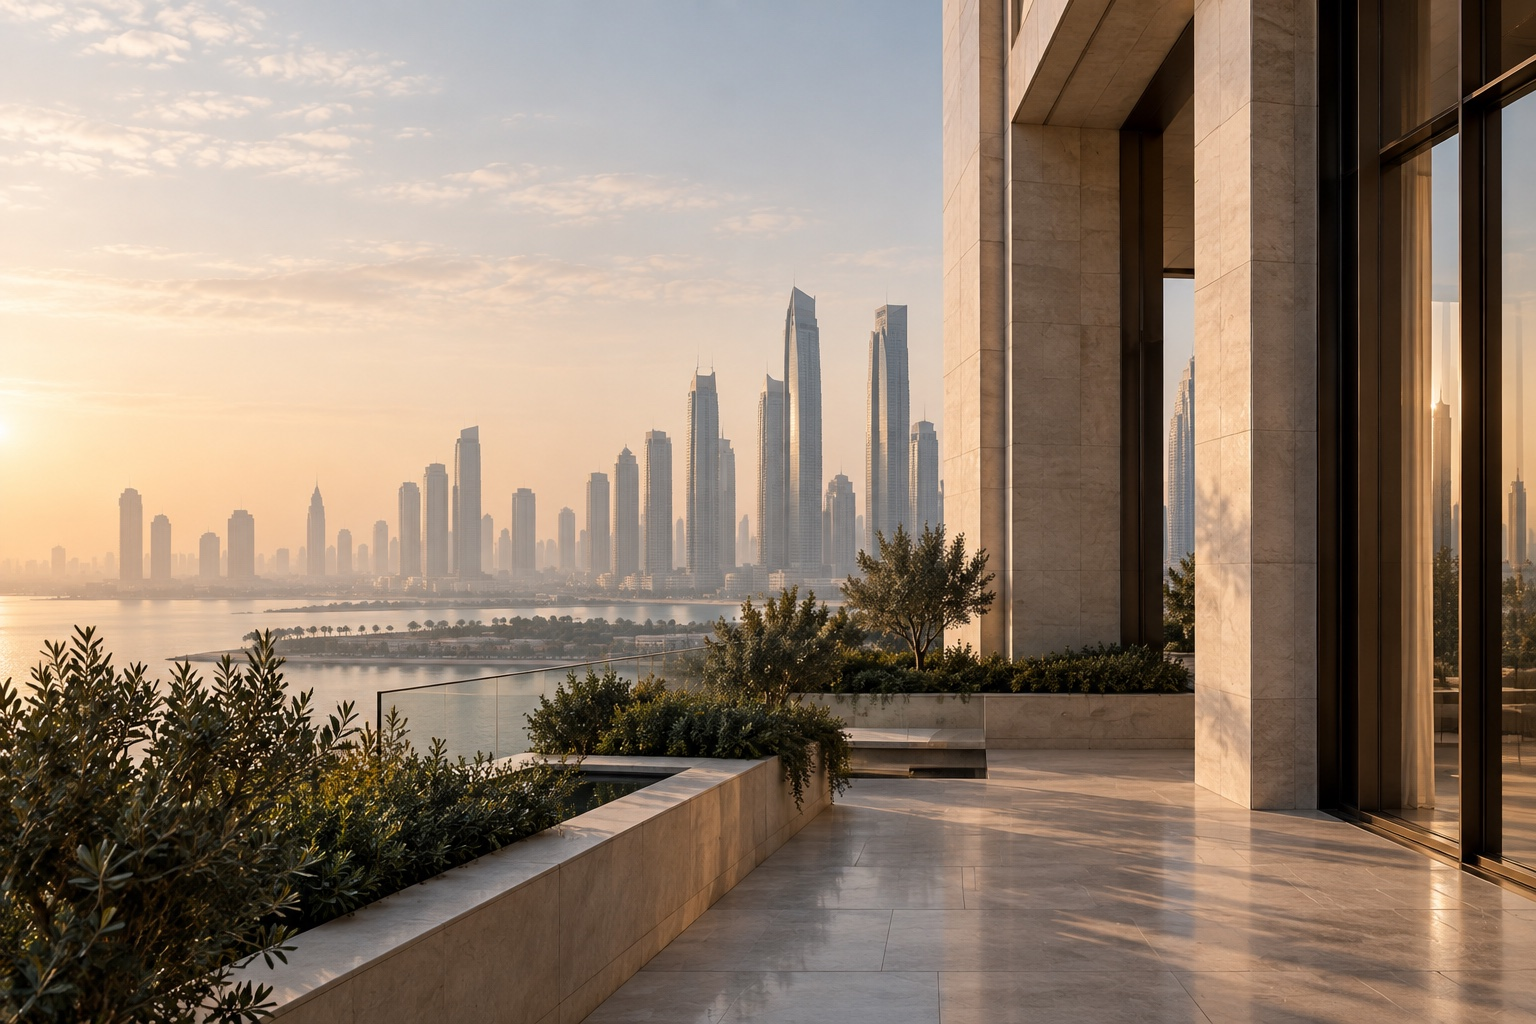
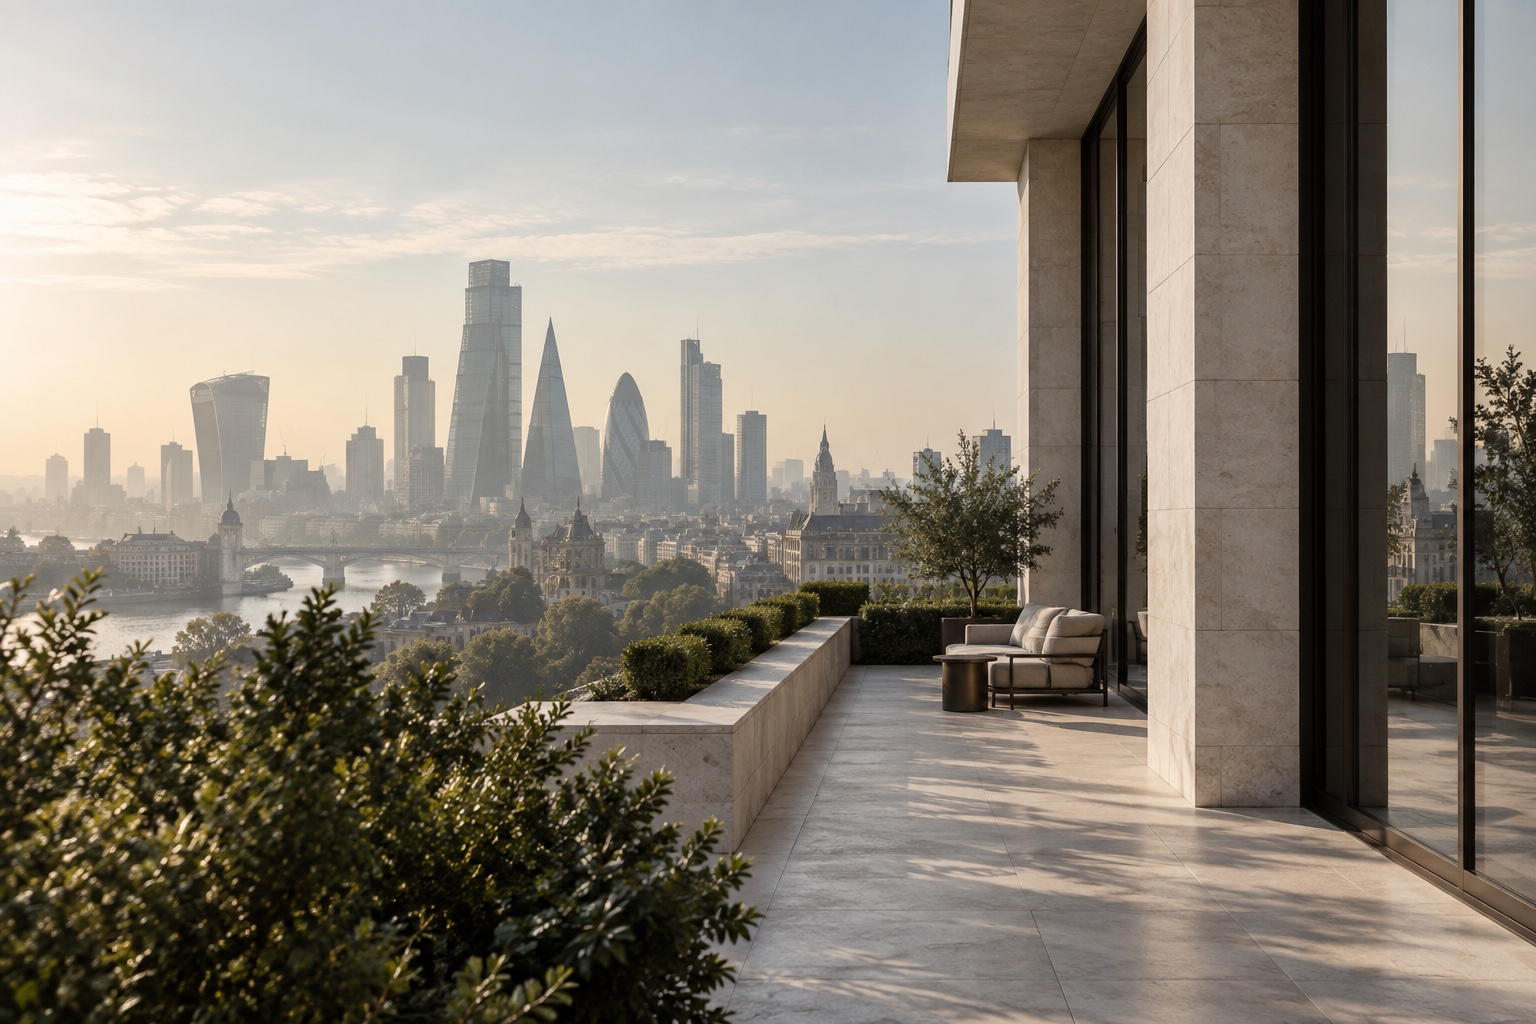
Refine What We Do image proportions

diff --git a/src/app/what-we-do/page.tsx b/src/app/what-we-do/page.tsx
@@ -61,17 +61,15 @@ export default function WhatWeDoPage() {
 
       {/* Positioning */}
       <section className="bg-offwhite py-24 lg:py-32">
-        <div className="container-editorial grid items-stretch gap-12 lg:grid-cols-12 lg:gap-16">
+        <div className="container-editorial grid items-center gap-12 lg:grid-cols-12 lg:gap-16">
           <div className="flex flex-col justify-center lg:col-span-5 lg:pr-4">
             <Reveal>
-              <h2 className="font-serif text-h2 font-medium text-primary">
-                Our role
-              </h2>
-              <GoldRule draw className="mt-6" />
+              <Eyebrow>Our role</Eyebrow>
+              <GoldRule draw className="mt-5" />
             </Reveal>
             <Reveal
               as="p"
-              className="mt-8 max-w-xl font-serif text-[1.7rem] font-medium leading-[1.3] text-primary sm:text-3xl sm:leading-[1.28]"
+              className="mt-10 max-w-xl font-serif text-[1.7rem] font-medium leading-[1.3] text-primary sm:text-3xl sm:leading-[1.28]"
             >
               We identify and assess high-potential private market opportunities,
               frame them clearly for our relevant capital partners, and leverage
@@ -93,7 +91,7 @@ export default function WhatWeDoPage() {
           <Reveal
             as="figure"
             delay={100}
-            className="relative min-h-[21rem] overflow-hidden rounded-sm border border-charcoal/10 bg-white shadow-[0_28px_70px_-48px_rgba(4,64,41,0.45)] sm:min-h-[26rem] lg:col-span-7 lg:min-h-0"
+            className="relative aspect-[3/2] overflow-hidden rounded-sm border border-charcoal/10 bg-white shadow-[0_28px_70px_-48px_rgba(4,64,41,0.45)] lg:col-span-7"
           >
             <div
               aria-hidden="true"
@@ -113,15 +111,13 @@ export default function WhatWeDoPage() {
 
       {/* Capabilities — numbered editorial rows */}
       <section className="border-t border-charcoal/10 bg-white py-20 lg:py-28">
-        <div className="container-editorial grid lg:grid-cols-12 lg:gap-x-16">
-          <Reveal className="lg:col-span-7 lg:row-start-1">
-            <h2 className="font-serif text-h2 font-medium text-primary">
-              Our capabilities
-            </h2>
-            <GoldRule draw className="mt-6" />
+        <div className="container-editorial">
+          <Reveal>
+            <Eyebrow>Our capabilities</Eyebrow>
+            <GoldRule draw className="mt-5" />
           </Reveal>
 
-          <ul className="contents">
+          <ul className="mt-8 grid items-start lg:grid-cols-12 lg:gap-x-16">
             {capabilities.map((c, i) => (
               <Reveal
                 as="li"
@@ -129,12 +125,12 @@ export default function WhatWeDoPage() {
                 delay={i * 60}
                 className={`group grid grid-cols-[3.5rem_minmax(0,1fr)] gap-x-5 border-b border-charcoal/10 py-10 sm:grid-cols-[4.5rem_minmax(0,1fr)] sm:gap-x-7 lg:col-span-7 lg:col-start-1 lg:py-11 ${
                   i === 0
-                    ? "order-1 mt-8 lg:order-none lg:row-start-2"
+                    ? "order-1 lg:order-none lg:row-start-1"
                     : i === 1
-                      ? "order-2 lg:order-none lg:row-start-3"
+                      ? "order-2 lg:order-none lg:row-start-2"
                       : i === 2
-                        ? "order-4 lg:order-none lg:row-start-4"
-                        : "order-5 lg:order-none lg:row-start-5"
+                        ? "order-4 lg:order-none lg:row-start-3"
+                        : "order-5 lg:order-none lg:row-start-4"
                 }`}
               >
                 <span
@@ -144,9 +140,9 @@ export default function WhatWeDoPage() {
                   {c.n}
                 </span>
                 <div>
-                  <h3 className="max-w-[18ch] font-serif text-2xl font-medium leading-tight text-primary transition-transform duration-500 group-hover:translate-x-1 lg:text-[1.7rem]">
+                  <h2 className="max-w-[18ch] font-serif text-2xl font-medium leading-tight text-primary transition-transform duration-500 group-hover:translate-x-1 lg:text-[1.7rem]">
                     {c.title}
-                  </h3>
+                  </h2>
                   <GoldRule className="mt-5 w-10 transition-all duration-500 group-hover:w-20" />
                 </div>
                 <div className="mt-6 space-y-5">
@@ -165,7 +161,7 @@ export default function WhatWeDoPage() {
             <Reveal
               as="li"
               delay={100}
-              className="relative order-3 my-10 aspect-[4/5] overflow-hidden rounded-sm border border-charcoal/10 shadow-[0_28px_70px_-48px_rgba(4,64,41,0.45)] lg:order-none lg:col-span-5 lg:col-start-8 lg:row-span-5 lg:row-start-1 lg:my-0 lg:aspect-auto lg:min-h-[46rem]"
+              className="relative order-3 my-10 aspect-[2/3] overflow-hidden rounded-sm border border-charcoal/10 shadow-[0_28px_70px_-48px_rgba(4,64,41,0.45)] lg:order-none lg:col-span-5 lg:col-start-8 lg:row-span-4 lg:row-start-1 lg:my-0 lg:self-center"
             >
               <div
                 aria-hidden="true"
